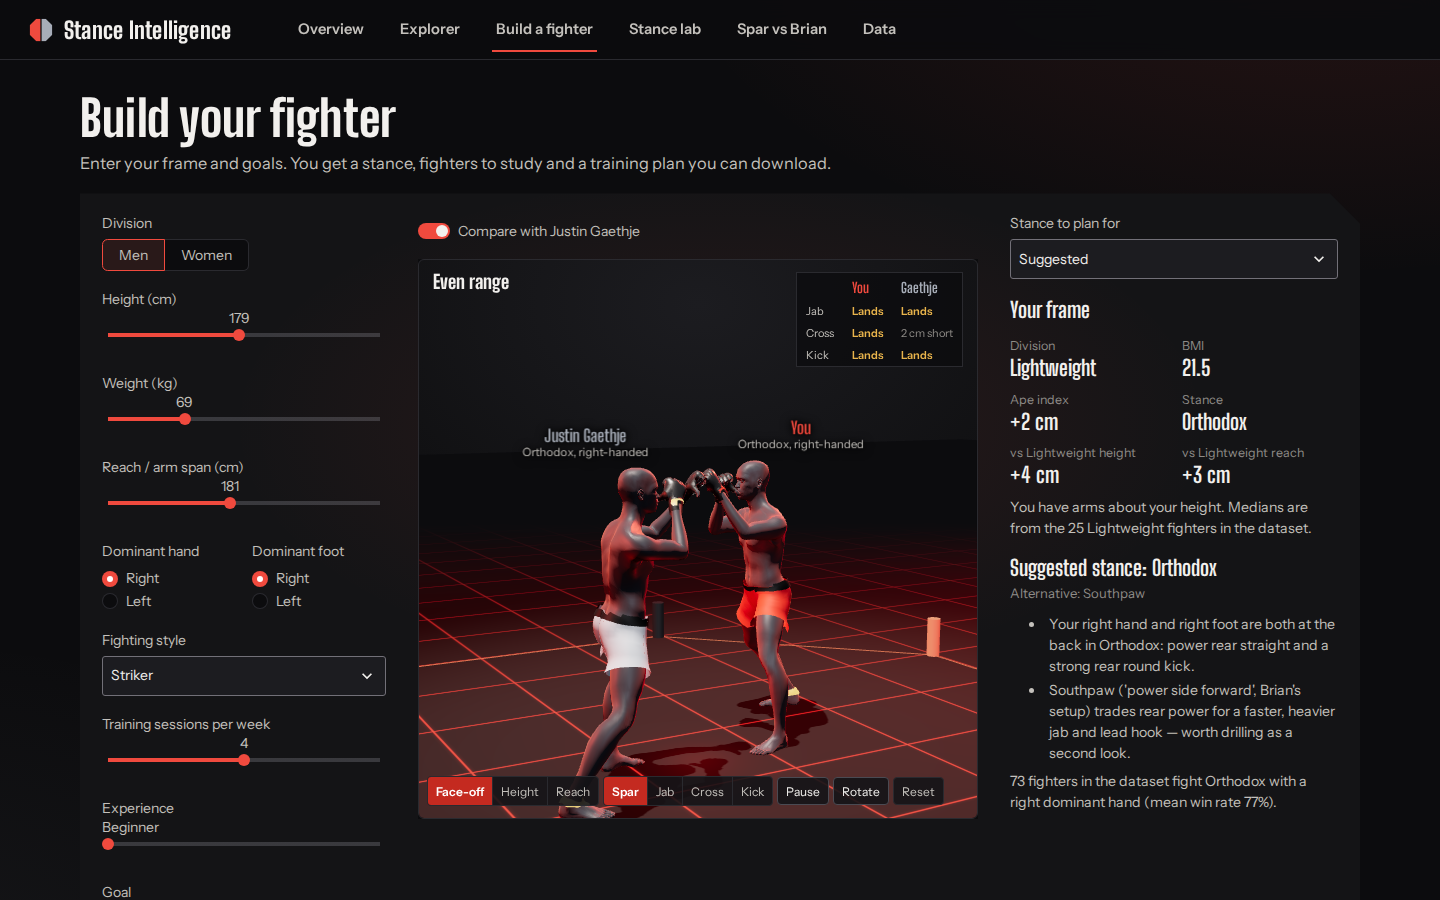
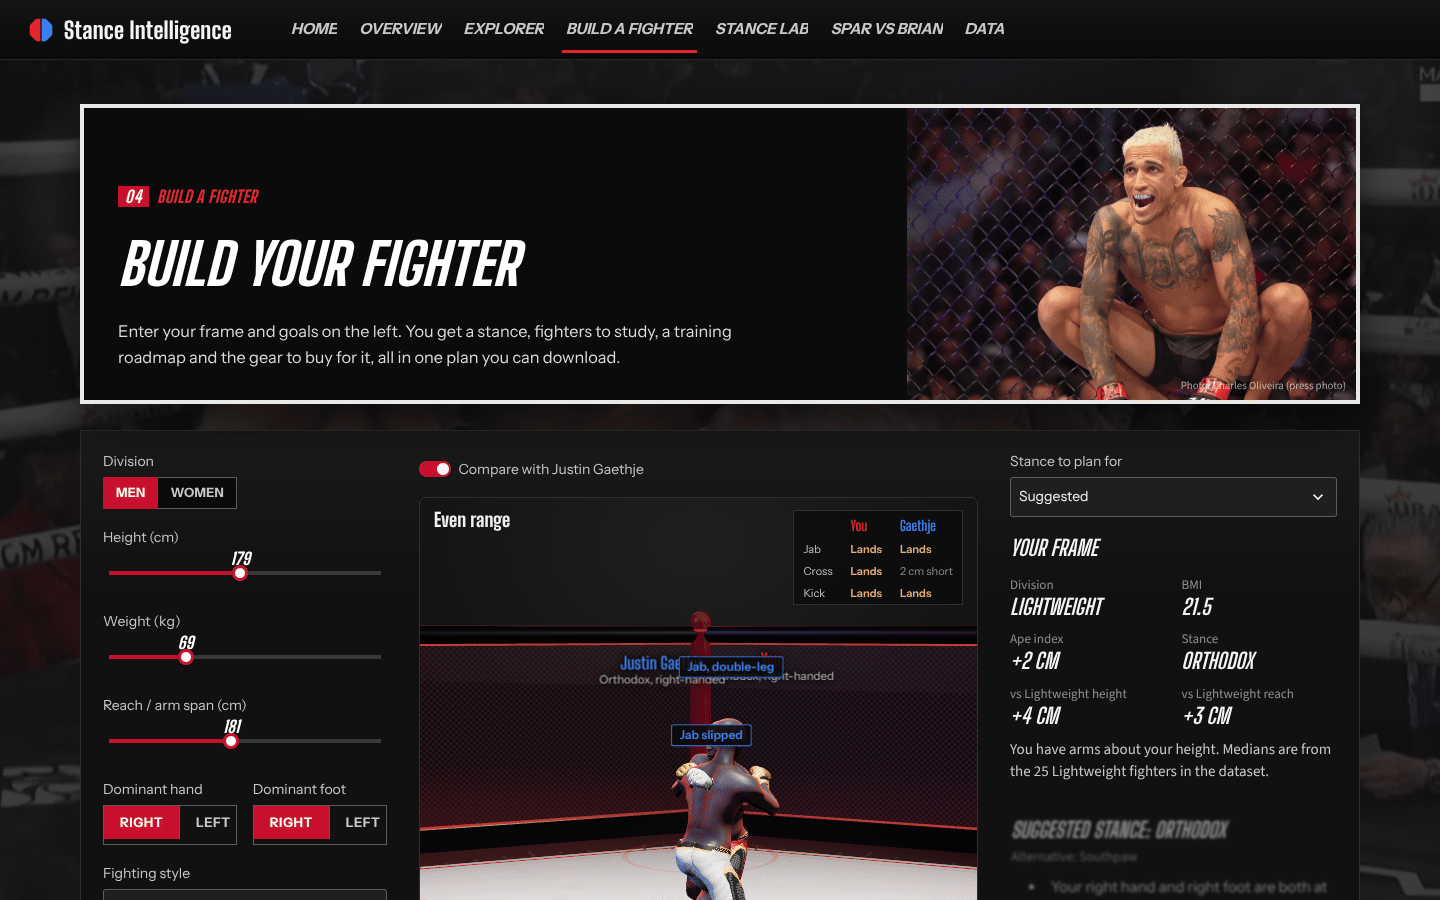
README and design doc match the current app
- README: Home page and intro, new screenshots of all seven pages, re-recorded
  GIFs of the current 3D Octagon, gear to buy, Power BI report, pipeline and SQL
  commands, updated project structure, photo credits, and the CI badge now
  points at ci.yml (tests.yml does not exist).
- DESIGN_SYSTEM.md: red and blue fight-night tokens, banner and backdrop
  components, motion layer, stage description.
- Skip intro now plays the landing title straight away instead of waiting
  out the full clip.
- Red text token lifted to #EB3F45 (was 4.4:1 on the canvas, now 5.0:1) and
  input outlines to #6E6E72 (was 2.5:1, now 3.2:1) for WCAG AA.

Claude-Session: https://claude.ai/code/session_01Qc5sstqkJNXLn3qbsKfVZV

diff --git a/components/body3d/index.html b/components/body3d/index.html
@@ -9,7 +9,7 @@
   @font-face { font-family: "Big Shoulders Display"; src: url("fonts/big-shoulders-display-latin-700-normal.woff2") format("woff2"); font-weight: 700; }
   @font-face { font-family: "Big Shoulders Display"; src: url("fonts/big-shoulders-display-latin-800-normal.woff2") format("woff2"); font-weight: 800; }
   :root { --bg:#0A0A0A; --ink:#F3F1EC; --ink2:#C4C1BA; --mute:#8F8C86; --line:#2E2E33;
-          --a:#E5252D; --afill:#C8102E; --b:#3B82F6; --rule:#E9B44C; --neon:#FF3B3B; }
+          --a:#EB3F45; --afill:#C8102E; --b:#3B82F6; --rule:#E9B44C; --neon:#FF3B3B; }
   html, body { margin:0; height:100%; background:var(--bg); overflow:hidden; color:var(--ink);
                font-family:"Instrument Sans", "Segoe UI", system-ui, sans-serif; }
   #wrap { position:relative; width:100%; height:100%; overflow:hidden; box-sizing:border-box;

diff --git a/ui.py b/ui.py
@@ -21,12 +21,12 @@ BORDER = "#2E2E30"      # hairlines
 INK = "#F5F5F5"
 INK_2 = "#C8C8C8"
 INK_MUTED = "#8E8E8E"   # 5.9:1 on BG, 5.0:1 on SURFACE_2
-ACCENT = "#E5252D"      # red corner: lines, marks and text (4.9:1 on BG)
+ACCENT = "#EB3F45"      # red corner: lines, marks and text (5.0:1 on BG, 4.6:1 on SURFACE)
 ACCENT_FILL = "#C8102E" # red for filled buttons, chips, sliders (white text 5.9:1)
 ACCENT_2 = "#3B82F6"    # blue corner (5.4:1 on BG)
 ACCENT_2_TEXT = "#5B9BFF"
 ON_ACCENT = "#FFFFFF"   # text on ACCENT_FILL
-FIELD_BORDER = "#5C5C60"  # input outlines: 3.1:1 on SURFACE_2 (WCAG 1.4.11)
+FIELD_BORDER = "#6E6E72"  # input outlines: 3.2:1 on SURFACE_2 (WCAG 1.4.11)
 RULE = "#E9B44C"        # gold: reference lines, dominant side, focus ring
 ACCENT_SOFT = "rgba(229, 37, 45, 0.14)"
 MUTED_FILL = "#2A2A2C"   # de-emphasised bars (outside a selection)
@@ -36,9 +36,9 @@ DISPLAY = "'Big Shoulders Display', 'Oswald', 'Arial Narrow', sans-serif"
 BODY = "'Instrument Sans', 'Segoe UI', system-ui, sans-serif"
 
 # Categorical palette (dark surface), assigned in a fixed order per dimension.
-PALETTE = ["#E5252D", "#3B82F6", "#E9B44C", "#2DBE8C", "#B8B8B8", "#6E6E72"]
+PALETTE = ["#EB3F45", "#3B82F6", "#E9B44C", "#2DBE8C", "#B8B8B8", "#6E6E72"]
 SEQ_BLUE = [[0, "#2A0A0E"], [0.5, "#B3121A"], [1, "#FFB3B3"]]   # black -> red -> pale red
-GRAD_BAR = ["#3B82F6", "#E5252D"]
+GRAD_BAR = ["#3B82F6", "#EB3F45"]
 STYLE_COLORS = dict(zip(core.STYLES, PALETTE))
 
 PLOTLY_CONFIG = {"displaylogo": False, "displayModeBar": False, "topojsonURL": "app/static/"}

diff --git a/views/home.py b/views/home.py
@@ -121,6 +121,10 @@ const hold = () => { if (!held) { held = true; setTimeout(finish, Math.max(0, (T
 function finish() {
   if (done) return; done = true;
   wrap.style.opacity = 0;
+  // skipped early: the title's entrance was timed for the full clip, so play it now instead
+  try { const h = window.parent.document.querySelector(".land .h1");
+        if (h) { h.style.animation = "none"; void h.offsetWidth; h.style.animation = ""; h.style.animationDelay = ".3s"; } }
+  catch (e) {}
   setTimeout(() => { try { window.frameElement.closest('[class*="st-key-introbox"]').style.display = "none"; }
                      catch (e) { document.body.style.display = "none"; } }, 850);
 }

diff --git a/README.md b/README.md
@@ -4,9 +4,9 @@
 [![Streamlit App](https://img.shields.io/badge/Streamlit_App-Live-C862CE?style=for-the-badge&logo=streamlit&logoColor=white)](https://ufcstanceandhandednessintelligence-qsdqucvqpj5hhwymhqbeji.streamlit.app)
 [![Tableau](https://img.shields.io/badge/Tableau_Dashboard-Live-5A54D8?style=for-the-badge&logo=tableau&logoColor=white)](https://public.tableau.com/app/profile/brian.ma5935/viz/UFCRECOMENDATIONENGINE/Dashboard1)
 [![Kaggle Dataset](https://img.shields.io/badge/Dataset-Kaggle-20BEFF?style=for-the-badge&logo=kaggle&logoColor=white)](https://www.kaggle.com/brianphu)
-[![Tests](https://github.com/brianphu2310/UFC_STANCE_AND_HANDEDNESS_INTELLIGENCE/actions/workflows/tests.yml/badge.svg)](https://github.com/brianphu2310/UFC_STANCE_AND_HANDEDNESS_INTELLIGENCE/actions/workflows/tests.yml)
+[![Tests](https://github.com/brianphu2310/UFC_STANCE_AND_HANDEDNESS_INTELLIGENCE/actions/workflows/ci.yml/badge.svg)](https://github.com/brianphu2310/UFC_STANCE_AND_HANDEDNESS_INTELLIGENCE/actions/workflows/ci.yml)
 
-![App tour](docs/gif/app_tour.gif)
+![App tour: every page of the app](docs/gif/app_tour.gif)
 
 ## The question
 
@@ -46,44 +46,66 @@ win rates don't.
 ## See it move
 
 The fighters are a real human body model (the MakeHuman CC0 base mesh, shaped into an athletic
-male and rigged by `scripts/build_body_model.py`), posed every frame by the app's own joint solver.
-In **Spar** mode the two fighters bounce in an MMA stance, feint, circle, step in with real footwork
-(the moving foot leads, the other follows), throw ten combos (1-2, 1-2-3, 1-2 and calf kick, jab and
-double-leg shot, jab-body cross-hook, double jab-cross, 1-6-3, jab and calf kick, teep, 1-2 and body kick)
-and step back out, while the other fighter slips, covers, rolls under hooks, checks calf kicks and
-sprawls on the takedown. Both wear MMA fight kit: 4 oz gloves with a wide wrist cuff and tight fight
-shorts in black with red- or blue-corner side panels, inside a full-size Octagon (30 ft across, canvas
-mat, padded red and blue corner posts, chain-link fence that cuts away on the camera's side). Every strike is judged as it arrives: short of the target, defended, or
-landed, from the live distance between the two bodies. A body kick that lands drops the opponent
-to one knee. The **Jab / Cross / Kick** buttons instead throw one strike from the measured distance
-in the range table, where the longer jab just lands.
+male and rigged by `scripts/build_body_model.py`), posed every frame by the app's own joint solver,
+inside a full-size Octagon (30 ft across, canvas mat, red and blue corner posts, chain-link fence that
+cuts away on the camera's side). Both wear MMA kit: 4 oz gloves and fight shorts in their corner colour.
 
-| Spar: footwork, combos and defence | Jones vs Cormier: 30 cm of reach |
+In **Spar** mode the two fighters bounce in stance, feint, circle and step in with real footwork, throw
+ten combos (1-2, 1-2-3, jab and double-leg, 1-2 and body kick and more) and step back out, while the
+other fighter slips, covers, rolls, checks kicks and sprawls. Every strike is judged as it arrives:
+short, defended or landed, from the live distance between the two bodies. A body kick that lands drops
+the opponent to one knee. The **Jab / Cross / Kick** buttons throw one strike from the measured
+distance in the range table; **Height** and **Reach** line the two fighters up against a ruler.
+
+| Spar: footwork, combos and defence | Jab, kick, then Height and Reach |
 |---|---|
-| ![Spar mode](docs/gif/faceoff_combo.gif) | ![Face-off, height and reach views](docs/gif/modes.gif) |
+| ![Spar mode, McGregor vs Khabib](docs/gif/faceoff_combo.gif) | ![Single strikes and the height and reach views](docs/gif/modes.gif) |
 
-**Build a fighter:** the body model reshapes as height, weight and reach change, and switches stance on the spot.
+**Build a fighter:** the body model grows and fills out as the height, weight and reach sliders move.
 
-![Body model morphing](docs/gif/morph.gif)
+![Body model morphing with height and weight](docs/gif/morph.gif)
 
 ## The app
 
+The app opens on a short intro (a credited AI fight clip by @fightingapex on TikTok, a "K.O." and
+then Gervonta Davis's body shot on Ryan Garcia), shown once per visit with a **Skip intro** button.
+Every page then sits on a slow slideshow of real fight photos behind a dark veil, with a
+broadcast-style banner at the top.
+
 | Page | What it does |
 |---|---|
-| **Overview** | One-screen dashboard: rotatable 3D globe with fighter names on each country, continent picker, debut-year timeline with slider, and six different charts on stance, hand and foot |
-| **Explorer** | Pick any two fighters: tale of the tape, a 3D face-off in the octagon (jab, cross and kick thrown from real range, plus height and reach overlays), skill-percentile butterfly chart, stance geometry, and the five fighters who fight most like them. Filterable table with CSV export |
-| **Build a fighter** | Enter height, weight, reach, dominant hand and foot, style, training frequency and goal → rotatable 3D body model, stance advice, fighters to study (with what to learn from their real stats), a phased roadmap, weekly schedule, classes and coaches. Downloadable plan |
+| **Home** | Landing page: "Which side do you lead with?", the headline numbers, a southpaw vs orthodox tale of the tape and tonight's card linking to every page |
+| **Overview** | One-screen dashboard: rotatable 3D globe with fighter names on each country, continent picker, debut-year timeline with slider, and charts on stance, hand and foot |
+| **Explorer** | Pick any two fighters: tale of the tape, a 3D face-off in the Octagon (jab, cross and kick thrown from real range, plus height and reach views), skill-percentile butterfly chart, stance geometry, and the five fighters who fight most like them. Filterable table with CSV export |
+| **Build a fighter** | Enter height, weight, reach, dominant hand and foot, style, training and goal → rotatable 3D body model, stance advice, fighters to study, a phased roadmap, weekly schedule, **gear to buy** (with photos, for your budget), classes and coaches. Downloadable plan |
 | **Stance lab** | Welch t-test, Mann-Whitney, Cohen's d, bootstrap intervals, Holm correction and power analysis for any outcome and grouping |
 | **Spar vs Brian** | Open vs closed stance game plan against a right-handed southpaw, with both fighters sparring in 3D |
 | **Data** | Where every column comes from, the 43 stance corrections, and limitations |
 
-<table><tr><td colspan="2"><img src="docs/img/overview.png" alt="Overview"></td></tr><tr>
+<table><tr><td colspan="2"><img src="docs/img/home.png" alt="Home: landing page"></td></tr><tr>
+<td><img src="docs/img/overview.png" alt="Overview"></td>
 <td><img src="docs/img/explorer.png" alt="Explorer"></td>
-<td><img src="docs/img/build_fighter.png" alt="Build a fighter"></td>
 </tr><tr>
+<td><img src="docs/img/build_fighter.png" alt="Build a fighter"></td>
 <td><img src="docs/img/stance_lab.png" alt="Stance lab"></td>
+</tr><tr>
 <td><img src="docs/img/spar_vs_brian.png" alt="Spar vs Brian"></td>
+<td><img src="docs/img/data.png" alt="Data"></td>
 </tr></table>
+
+Colours, type, components and accessibility notes are in [docs/DESIGN_SYSTEM.md](docs/DESIGN_SYSTEM.md).
+
+## Power BI dashboard
+
+The same dataset as a four-page Power BI report, `powerbi/ufc_dashboard.pbix`. **Dashboard** ranks the
+top fighters to study and maps where they come from; **Fighters world** compares height against reach
+and win rate by stance and hand; **Skills lab** breaks wins down by method and weight class; **About**
+explains every measure. Stance, hand and weight-class filters apply on every page.
+
+| | |
+|---|---|
+| ![Power BI dashboard](docs/powerbi/ufc-1.png) | ![Power BI fighters world](docs/powerbi/ufc-2.png) |
+| ![Power BI skills lab](docs/powerbi/ufc-3.png) | ![Power BI about](docs/powerbi/ufc-4.png) |
 
 ## Data
 
@@ -94,6 +116,7 @@ in the range table, where the longer jab just lands.
 | Derived | Strike accuracy/defence, output, damage absorbed, takedowns, control time, fighting style, popularity index |
 | Estimated | **Dominant foot only** — no public source records it; clearly marked "≈" / "EST" everywhere |
 | [MakeHuman](https://github.com/makehumancommunity/makehuman) (CC0) | 3D body mesh, skeleton, skin weights and body-shape targets for the fighter model |
+| Press photos, a broadcast still and the intro clip | Page banners, background slideshow and intro; each one is credited on screen and listed in `static/hero/credits.csv` (gear photos in `static/gear/credits.csv`) |
 
 Every column's source is listed in `data/data_dictionary.csv`. Coaches and classes on the
 Build-a-fighter page are a fictional sample catalogue you can replace with a real gym's roster.
@@ -113,7 +136,14 @@ python scripts/build_clean_dataset.py
 python scripts/enrich_dataset.py
 ```
 
-Tests (data quality, statistics, recommender, and a smoke test of every page):
+Data pipeline and SQL (builds a SQLite star schema, then runs ten analysis queries):
+
+```bash
+python -m pipeline.run
+python sql/run_queries.py
+```
+
+Tests (data quality, pipeline, SQL, statistics, recommender, and a smoke test of every page; 105 tests):
 
 ```bash
 pytest -q
@@ -122,16 +152,24 @@ pytest -q
 ## Project structure
 
 ```
-ufc_intelligence_app.py     entry point, top-bar navigation
+ufc_intelligence_app.py     entry point, top-bar navigation (Home is the default page)
 ufc_core.py                 statistics, recommender, roadmap (no Streamlit — unit-tested)
-ui.py                       theme, chart defaults, shared HTML pieces
-views/                      one module per page
+ui.py                       theme tokens, fonts, banners, background slideshow, motion, shared HTML pieces
+views/                      one module per page (home.py holds the landing page and intro)
 components/globe3d/         three.js globe (bundled locally, no CDN)
 components/body3d/          three.js face-off: skinned MakeHuman body (fighter.glb) driven by a joint solver
+static/hero/                banner and background photos, intro clip and its timings, credits.csv
+static/gear/                gear photos for Build a fighter, credits.csv
+static/fonts/               self-hosted Big Shoulders Display and Instrument Sans
+pipeline/                   ETL into a SQLite star schema with data-quality checks (schema.sql)
+sql/                        ten analysis queries, results in docs/query_results/
+ingestion/                  live UFCSTATS scraper (run by .github/workflows/live-ingestion.yml)
 scripts/                    build_clean_dataset.py → enrich_dataset.py, build_body_model.py
 data/                       cleaned + enriched dataset, data dictionary, sample catalogues
+powerbi/                    Power BI report (screenshots in docs/powerbi/)
+docs/                       data model, dictionary, quality report, design system, skills map
 tests/                      pytest suite incl. Streamlit AppTest page smoke tests
-notebooks (*.ipynb)         original scraping, cleaning and visualisation work
+notebooks/                  original scraping, cleaning and visualisation work
 legacy/                     first-version scripts kept for reference
 ```
 
@@ -142,6 +180,8 @@ legacy/                     first-version scripts kept for reference
 - **Dominant hand** comes from the project spreadsheet and is not independently verified.
 - **UFC-only stats** — fighters with little UFC time (e.g. Fedor) have no fight-log stats.
 - The Tableau dashboard and Colab notebook predate the stance corrections.
+- Fight photos and the intro clip belong to their owners and are used with credit for a class project;
+  the app is not affiliated with the UFC.
 
 ## About
 

diff --git a/docs/DESIGN_SYSTEM.md b/docs/DESIGN_SYSTEM.md
@@ -1,7 +1,8 @@
 # Stance Intelligence design system
 
-The app is built to look like a future fight night: a violet-black arena, a violet corner and a
-cyan corner, and violet neon light on the 3D stage. A gold rule marks reference lines and the
+The app is built to look like a fight-night broadcast: an arena-black canvas, a red corner and a
+blue corner, real fight photos in the page banners and in a slow slideshow behind every page, and
+red neon light on the 3D stage. A gold rule marks reference lines and the
 dominant hand and foot. The signature shape is the octagon: it appears in the logo mark, the hero
 panels and the 3D mat. A faint chain-link diamond from the cage fence sits in the page background.
 
@@ -16,24 +17,24 @@ components, and those mirror these tokens.
 
 | Token | Hex | Use | Contrast on BG |
 |---|---|---|---|
-| `BG` | `#0B0A12` | Page canvas | — |
-| `SURFACE` | `#14121E` | Panels, charts | — |
-| `SURFACE_2` | `#1D1A2A` | Raised areas, inputs, hover | — |
-| `BORDER` | `#2B2740` | Decorative hairlines only | decorative |
-| `FIELD_BORDER` | `#6F6890` | Input and select outlines | 3.3:1 on SURFACE_2 |
-| `INK` | `#F1EEF8` | Headings, values | 17.6:1 |
-| `INK_2` | `#C6C0D8` | Body text | 11.4:1 |
-| `INK_MUTED` | `#958EAD` | Labels, captions | 6.3:1 |
-| `ACCENT` | `#A77BFF` | Violet corner: marks, lines and text | 6.4:1 |
-| `ACCENT_FILL` | `#7C4DFF` | Filled buttons, selected pills, sliders | white text 4.8:1 |
-| `ACCENT_2` | `#48D1E0` | Cyan corner: marks, lines and text | 10.6:1 |
-| `ON_ACCENT` | `#FFFFFF` | Text on `ACCENT_FILL` | 4.8:1 |
-| `RULE` | `#E9B44C` | Reference lines, dominant side, focus ring | 10.4:1 |
-| `MUTED_FILL` | `#2A2640` | Bars outside a selection | — |
+| `BG` | `#0A0A0A` | Page canvas | — |
+| `SURFACE` | `#151515` | Panels, charts | — |
+| `SURFACE_2` | `#1F1F20` | Raised areas, inputs, hover | — |
+| `BORDER` | `#2E2E30` | Decorative hairlines only | decorative |
+| `FIELD_BORDER` | `#6E6E72` | Input and select outlines | 3.2:1 on SURFACE_2 |
+| `INK` | `#F5F5F5` | Headings, values | 18.2:1 |
+| `INK_2` | `#C8C8C8` | Body text | 11.8:1 |
+| `INK_MUTED` | `#8E8E8E` | Labels, captions | 6.0:1 |
+| `ACCENT` | `#EB3F45` | Red corner: marks, lines and text | 5.0:1 (4.6:1 on SURFACE) |
+| `ACCENT_FILL` | `#C8102E` | Filled buttons, selected pills, sliders | white text 5.9:1 |
+| `ACCENT_2` | `#3B82F6` | Blue corner: marks and lines (text uses `ACCENT_2_TEXT` `#5B9BFF`, 7.1:1) | 5.4:1 |
+| `ON_ACCENT` | `#FFFFFF` | Text on `ACCENT_FILL` | 5.9:1 |
+| `RULE` | `#E9B44C` | Reference lines, dominant side, focus ring | 10.5:1 |
+| `MUTED_FILL` | `#2A2A2C` | Bars outside a selection | — |
 
 Categorical palette (dark surface, assigned in a fixed order):
-`#A77BFF`, `#48D1E0`, `#E9B44C`, `#F062A8`, `#6BDB9A`, `#7D7896`.
-Sequential scale (globe, bubbles): violet-black `#1E1733` → violet `#5B34B8` → lavender `#C9A9FF`.
+`#EB3F45`, `#3B82F6`, `#E9B44C`, `#2DBE8C`, `#B8B8B8`, `#6E6E72`.
+Sequential scale (globe, bubbles): red-black `#2A0A0E` → red `#B3121A` → pale red `#FFB3B3`.
 
 Helpers:
 - `ui.text_color(c)`: use whenever a series colour is drawn as text (returns a text-safe variant where one exists).
@@ -59,11 +60,14 @@ numbers come with their unit ("4 cm short", not "−4").
 
 - Radius is 3–4px on controls. Panels use the octagon cut (`clip-path`, 22–30px corner) instead of rounding.
 - Spacing steps: 4, 8, 12, 16, 22, 30px. Sections open with 30px above them and a hairline.
-- Motion is only used for the 3D views. It stops when the user presses Pause, and it starts paused when `prefers-reduced-motion` is set. CSS transitions are switched off under reduced motion.
+- Motion: pages rise in on load, sections reveal as they scroll into view, tab panels slide in, a red
+  sweep bar runs under the header while a request is running, and the background photos cross-fade
+  slowly. The 3D views stop when the user presses Pause. Under `prefers-reduced-motion` the 3D views
+  start paused and every CSS animation and transition is switched off.
 
 ## Iconography
 
-`static/mark.svg` / `mark.png` is an octagon split down the middle into violet and cyan, the two corner colours. It
+`static/mark.svg` / `mark.png` is an octagon split down the middle into red and blue, the two corner colours. It
 is the favicon and sits beside the wordmark in the top bar. It is an original mark and is
 deliberately not the UFC logo: the app uses public fight data, but it is not affiliated with UFC.
 
@@ -73,11 +77,12 @@ The app uses no other icons. Words label every control.
 
 | Component | Where | Notes |
 |---|---|---|
-| `ui.page_header(title, dek)` | Top of every page | `h1` plus one-sentence dek |
+| `ui.page_header(title, dek)` | Top of every page | Broadcast banner: page number and name, `h1`, one-sentence dek, and the page's fight photo with its credit (`static/hero/`, inlined as data URIs) |
+| `ui.backdrop()` | Behind every page | Seven fight photos cross-fading in a random order under a dark veil |
 | `ui.section(title, sub, estimated)` | Section breaks | Heading role level 2; `estimated` adds the dashed gold badge |
 | Octagon hero (`st.container(key="oct_…")`) | Main panel of each page | The only place the octagon cut is used on a page |
 | `.card` | Tale of the tape, plans | Title, meta line, `.kv` stat grid, `.pill` tags |
-| `ui.callout(html)` | Verdicts and explanations | Tan left rule |
+| `ui.callout(html)` | Verdicts and explanations | Red left rule |
 | `.simlist / .simrow` | "Fights most like" | Name, meta, bar, score |
 | `ui.chart(fig, key, alt)` | Every Plotly chart | Writes a screen-reader description (auto-built from title and series, or `alt`) |
 | `globe3d` | Overview | Rotatable globe with country name cards |
@@ -87,16 +92,16 @@ The app uses no other icons. Words label every control.
 
 | Control | Type | States | Keyboard |
 |---|---|---|---|
-| Face-off / Height / Reach | Segmented, `aria-pressed` | Selected = violet fill, white text | Tab, Enter or Space |
+| Face-off / Height / Reach | Segmented, `aria-pressed` | Selected = red fill, white text | Tab, Enter or Space |
 | Spar / Jab / Cross / Kick | Segmented, Face-off only | Same | Same |
 | Pause / Play | Toggle | Label and `aria-pressed` follow the state | Same |
 | Rotate | Toggle | `aria-pressed` | Same |
 | Reset | Button | — | Same |
 | 3D canvas | `role="img"`, focusable | Accessible name follows the on-screen headline | Arrow keys turn, + and − zoom |
 
-Stage: a full-size Octagon (30 ft across) with a lilac-grey canvas, purple boundary and centre
-markings, a metallic chain-link fence with violet neon strips, violet and cyan corner posts, violet
-rim lights and fog. Fighters have graphite skin; the Neon button switches them to a glowing violet.
+Stage: a full-size Octagon (30 ft across) with a white canvas, red boundary and centre markings, a
+metallic chain-link fence with red neon strips, red and blue corner posts, red rim lights and fog.
+Fighters have graphite skin; the Neon button switches them to a glowing red.
 
 Body: a skinned human mesh (MakeHuman CC0 base mesh shaped into an athletic male, about 13,000
 vertices, 36 bones), built by `scripts/build_body_model.py`. The joint solver computes hips, knees,
